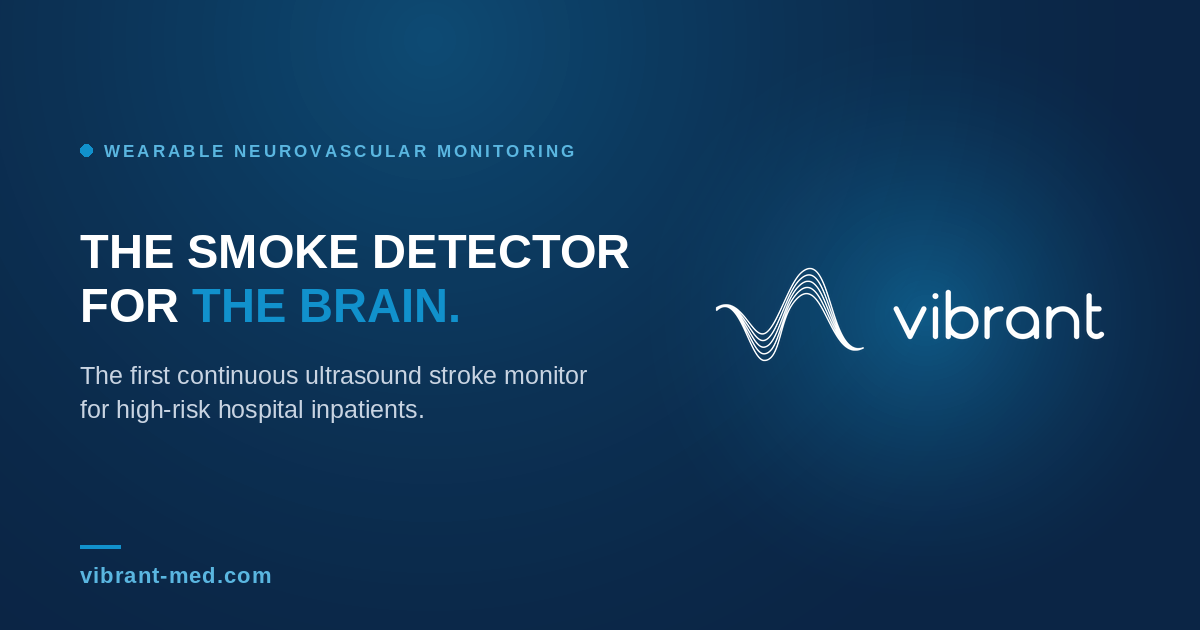
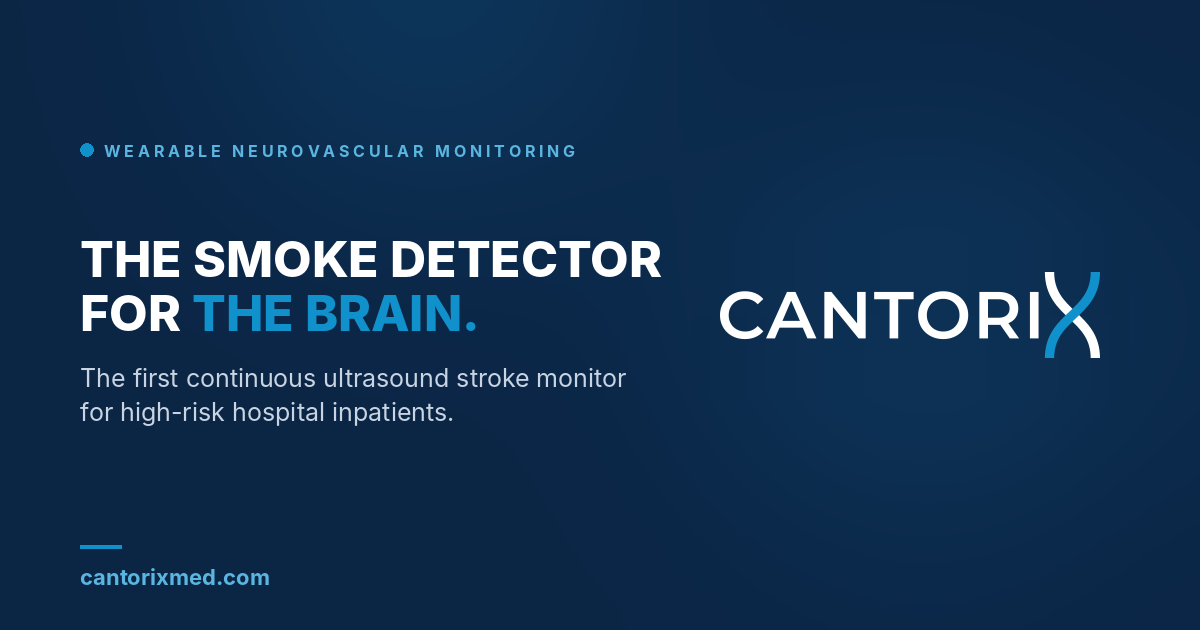
Switch Day: launch Cantorix site on cantorixmed.com (task 48)

diff --git a/index.html b/index.html
@@ -3,21 +3,25 @@
 <head>
   <meta charset="UTF-8" />
   <meta name="viewport" content="width=device-width, initial-scale=1.0" />
-  <title>Vibrant Medical: Continuous stroke monitoring for high-risk inpatients</title>
-  <meta name="description" content="Vibrant Medical. The first continuous ultrasound stroke monitor for high-risk hospital inpatients. A smoke detector for the brain." />
+  <title>Cantorix: Continuous stroke monitoring for high-risk inpatients</title>
+  <meta name="description" content="Cantorix (formerly Vibrant Medical). The first continuous ultrasound stroke monitor for high-risk hospital inpatients. A smoke detector for the brain." />
 
   <!-- Open Graph / social -->
   <meta property="og:type" content="website" />
-  <meta property="og:title" content="Vibrant Medical: The smoke detector for the brain." />
+  <meta property="og:title" content="Cantorix: The smoke detector for the brain." />
   <meta property="og:description" content="The first continuous ultrasound stroke monitor for high-risk hospital inpatients." />
-  <meta property="og:url" content="https://vibrant-med.com/" />
-  <meta property="og:image" content="https://vibrant-med.com/og-image.png" />
+  <meta property="og:url" content="https://cantorixmed.com/" />
+  <meta property="og:image" content="https://cantorixmed.com/og-image.png" />
   <meta name="twitter:card" content="summary_large_image" />
 
-  <link rel="icon" type="image/png" href="logo.png" />
+  <!-- Final Cantorix logo (Vessel X, selected 9 Oct 2026). Source files: Name change/Logo/Cantorix Logo Kit -->
+  <link rel="icon" href="favicon.ico" sizes="any" />
+  <link rel="icon" type="image/svg+xml" href="favicon.svg" />
+  <link rel="apple-touch-icon" href="apple-touch-icon.png" />
+  <meta name="theme-color" content="#0B2545" />
 
   <!-- Preload hero logo so it paints with the rest of the hero -->
-  <link rel="preload" as="image" href="logo.png" fetchpriority="high" />
+  <link rel="preload" as="image" href="logo.svg" fetchpriority="high" />
 
   <link rel="preconnect" href="https://fonts.googleapis.com">
   <link rel="preconnect" href="https://fonts.gstatic.com" crossorigin>
@@ -98,9 +102,9 @@
       justify-self: center;
     }
     .brand .logo {
-      height: 40px;
+      height: 36px;
       width: auto;
-      mix-blend-mode: screen;
+      display: block;
     }
 
     .nav-right {
@@ -146,7 +150,7 @@
     @media (max-width: 820px) {
       nav.top .wrap { grid-template-columns: auto 1fr auto; }
       .nav-left { display: none; }
-      .brand .logo { height: 34px; }
+      .brand .logo { height: 30px; }
       .btn { padding: 0.7rem 1rem; font-size: 0.78rem; }
     }
 
@@ -182,13 +186,14 @@
     .hero .wrap { position: relative; z-index: 1; }
 
     .hero-logo {
-      height: 110px;
+      height: 88px;
       width: auto;
+      max-width: 100%;
+      display: block;
       margin-bottom: 2.2rem;
-      mix-blend-mode: screen;
     }
     @media (max-width: 720px) {
-      .hero-logo { height: 80px; margin-bottom: 1.6rem; }
+      .hero-logo { height: 60px; margin-bottom: 1.6rem; }
     }
 
     .eyebrow {
@@ -537,6 +542,9 @@
       background: var(--border-soft);
       border: 1px solid var(--border-soft);
     }
+    .rec-grid.five { grid-template-columns: repeat(auto-fit, minmax(180px, 1fr)); }
+    .rec-grid.five .rec-card { padding: 1.6rem 1.2rem; }
+    .rec-grid.five .rec-badge { letter-spacing: 0.12em; }
     .rec-card {
       background: var(--navy-deep);
       padding: 1.7rem 1.5rem;
@@ -712,7 +720,7 @@
       <li><a href="#programs">Recognition</a></li>
     </ul>
     <a href="#top" class="brand">
-      <img src="logo.png" alt="Vibrant Medical" class="logo" />
+      <img src="logo.svg" alt="Cantorix" class="logo" width="155" height="36" />
     </a>
     <div class="nav-right">
       <a href="#contact" class="btn btn-primary">
@@ -725,7 +733,7 @@
 
 <section class="hero" id="top">
   <div class="wrap">
-    <img src="logo.png" alt="Vibrant Medical" class="hero-logo fade" decoding="async" fetchpriority="high" />
+    <img src="logo.svg" alt="Cantorix" class="hero-logo fade" width="378" height="88" decoding="async" fetchpriority="high" />
     <p class="eyebrow fade d1">Wearable neurovascular monitoring</p>
     <h1 class="fade d2">The smoke detector<br/>for <span class="accent">the brain</span>.</h1>
     <p class="lede fade d3">
@@ -884,7 +892,7 @@
     <p class="section-eyebrow">Recognition</p>
     <h2>Selected by top programs.<br/>Recognized on the pitch stage.</h2>
     <p class="section-lede">
-      Vibrant has been selected into leading innovation programs and recognized in startup
+      We have been selected into leading innovation programs and recognized in startup
       pitch competitions across health tech and AI.
     </p>
 
@@ -898,13 +906,25 @@
         <span class="rec-badge">Accelerator graduate &middot; 2026</span>
         <span class="rec-name">Sheba&ndash;Sderot Resilience Hub</span>
       </a>
+      <a class="rec-card" href="https://ambitionaccelerated.com/tampa-bay" target="_blank" rel="noopener">
+        <span class="rec-badge">Selected &middot; 2026</span>
+        <span class="rec-name">Embarc Collective &middot; Ambition Accelerated HealthTech</span>
+      </a>
     </div>
 
     <h3 class="rec-subhead">Competitions</h3>
-    <div class="rec-grid">
+    <div class="rec-grid five">
       <a class="rec-card win" href="https://www.summerfest-tech.com/pitch/pitch-competition" target="_blank" rel="noopener">
         <span class="rec-badge gold">Winner &middot; 2026</span>
         <span class="rec-name">Summerfest TechAI</span>
+      </a>
+      <a class="rec-card" href="https://www.collercompetition.com/" target="_blank" rel="noopener">
+        <span class="rec-badge">Semi-finalist &middot; 2026</span>
+        <span class="rec-name">Coller Competition</span>
+      </a>
+      <a class="rec-card" href="https://experiencehrx.com/hrx-live/pitch-competition/" target="_blank" rel="noopener">
+        <span class="rec-badge">Semi-finalist &middot; 2026</span>
+        <span class="rec-name">HRX Pitch Competition</span>
       </a>
       <a class="rec-card" href="https://go.charmhealth.com/charmhealthchallenge" target="_blank" rel="noopener">
         <span class="rec-badge">Finalist &middot; 2025</span>
@@ -913,10 +933,6 @@
       <a class="rec-card" href="https://hlth.com/events/usa/agenda/startup-pitch/" target="_blank" rel="noopener">
         <span class="rec-badge">Finalist &middot; 2025</span>
         <span class="rec-name">HLTH (USA Startup Pitch)</span>
-      </a>
-      <a class="rec-card" href="https://www.collercompetition.com/" target="_blank" rel="noopener">
-        <span class="rec-badge">Semi-finalist &middot; 2026</span>
-        <span class="rec-name">Coller Competition</span>
       </a>
     </div>
   </div>
@@ -930,7 +946,7 @@
       <div class="cta-card">
         <span class="label">Investors</span>
         <h3>Investor inquiries</h3>
-        <a href="mailto:tal.avziz@vibrant-med.com?subject=Vibrant%20Medical%3A%20Investor%20inquiry" class="btn btn-primary">
+        <a href="mailto:tal.avziz@cantorixmed.com?subject=Cantorix%3A%20Investor%20inquiry" class="btn btn-primary">
           Email the founder
           <svg viewBox="0 0 24 24" fill="none" stroke="currentColor" stroke-width="2.2"><line x1="5" y1="12" x2="19" y2="12"/><polyline points="12 5 19 12 12 19"/></svg>
         </a>
@@ -938,7 +954,7 @@
       <div class="cta-card">
         <span class="label">Clinical partners</span>
         <h3>Clinical &amp; site inquiries</h3>
-        <a href="mailto:tal.avziz@vibrant-med.com?subject=Vibrant%20Medical%3A%20Clinical%20inquiry" class="btn btn-primary">
+        <a href="mailto:tal.avziz@cantorixmed.com?subject=Cantorix%3A%20Clinical%20inquiry" class="btn btn-primary">
           Email us
           <svg viewBox="0 0 24 24" fill="none" stroke="currentColor" stroke-width="2.2"><line x1="5" y1="12" x2="19" y2="12"/><polyline points="12 5 19 12 12 19"/></svg>
         </a>
@@ -963,14 +979,15 @@
         <img src="libby.jpg" alt="Libby Cohen-Maguri" />
       </div>
     </div>
-    <p class="memorial-dedication">Vibrant Medical is honored to cherish the memory of Libby Cohen-Maguri as part of our commitment to remembering the lives lost on October 7th.</p>
+    <p class="memorial-dedication">Cantorix is honored to cherish the memory of Libby Cohen-Maguri as part of our commitment to remembering the lives lost on October 7th.</p>
   </div>
 </section>
 
 <footer>
   <div class="wrap">
-    <span>© 2026 Vibrant Medical Ltd. All rights reserved. · Tel Aviv, Israel</span>
-    <a href="https://www.linkedin.com/company/vibrant-medtech/" target="_blank" rel="noopener" class="ln">
+    <!-- Confirm the registered legal name from the Registrar certificate before Switch Day (Cantorix Medical Ltd. is first preference). -->
+    <span>© 2026 Cantorix Medical Ltd. (formerly Vibrant Medical Ltd.) All rights reserved. · Tel Aviv, Israel</span>
+    <a href="https://www.linkedin.com/company/cantorix/" target="_blank" rel="noopener" class="ln">
       <svg viewBox="0 0 24 24" fill="none" stroke="currentColor" stroke-width="2" stroke-linecap="round" stroke-linejoin="round"><path d="M16 8a6 6 0 0 1 6 6v7h-4v-7a2 2 0 0 0-2-2 2 2 0 0 0-2 2v7h-4v-7a6 6 0 0 1 6-6z"/><rect x="2" y="9" width="4" height="12"/><circle cx="4" cy="4" r="2"/></svg>
       LinkedIn
     </a>
